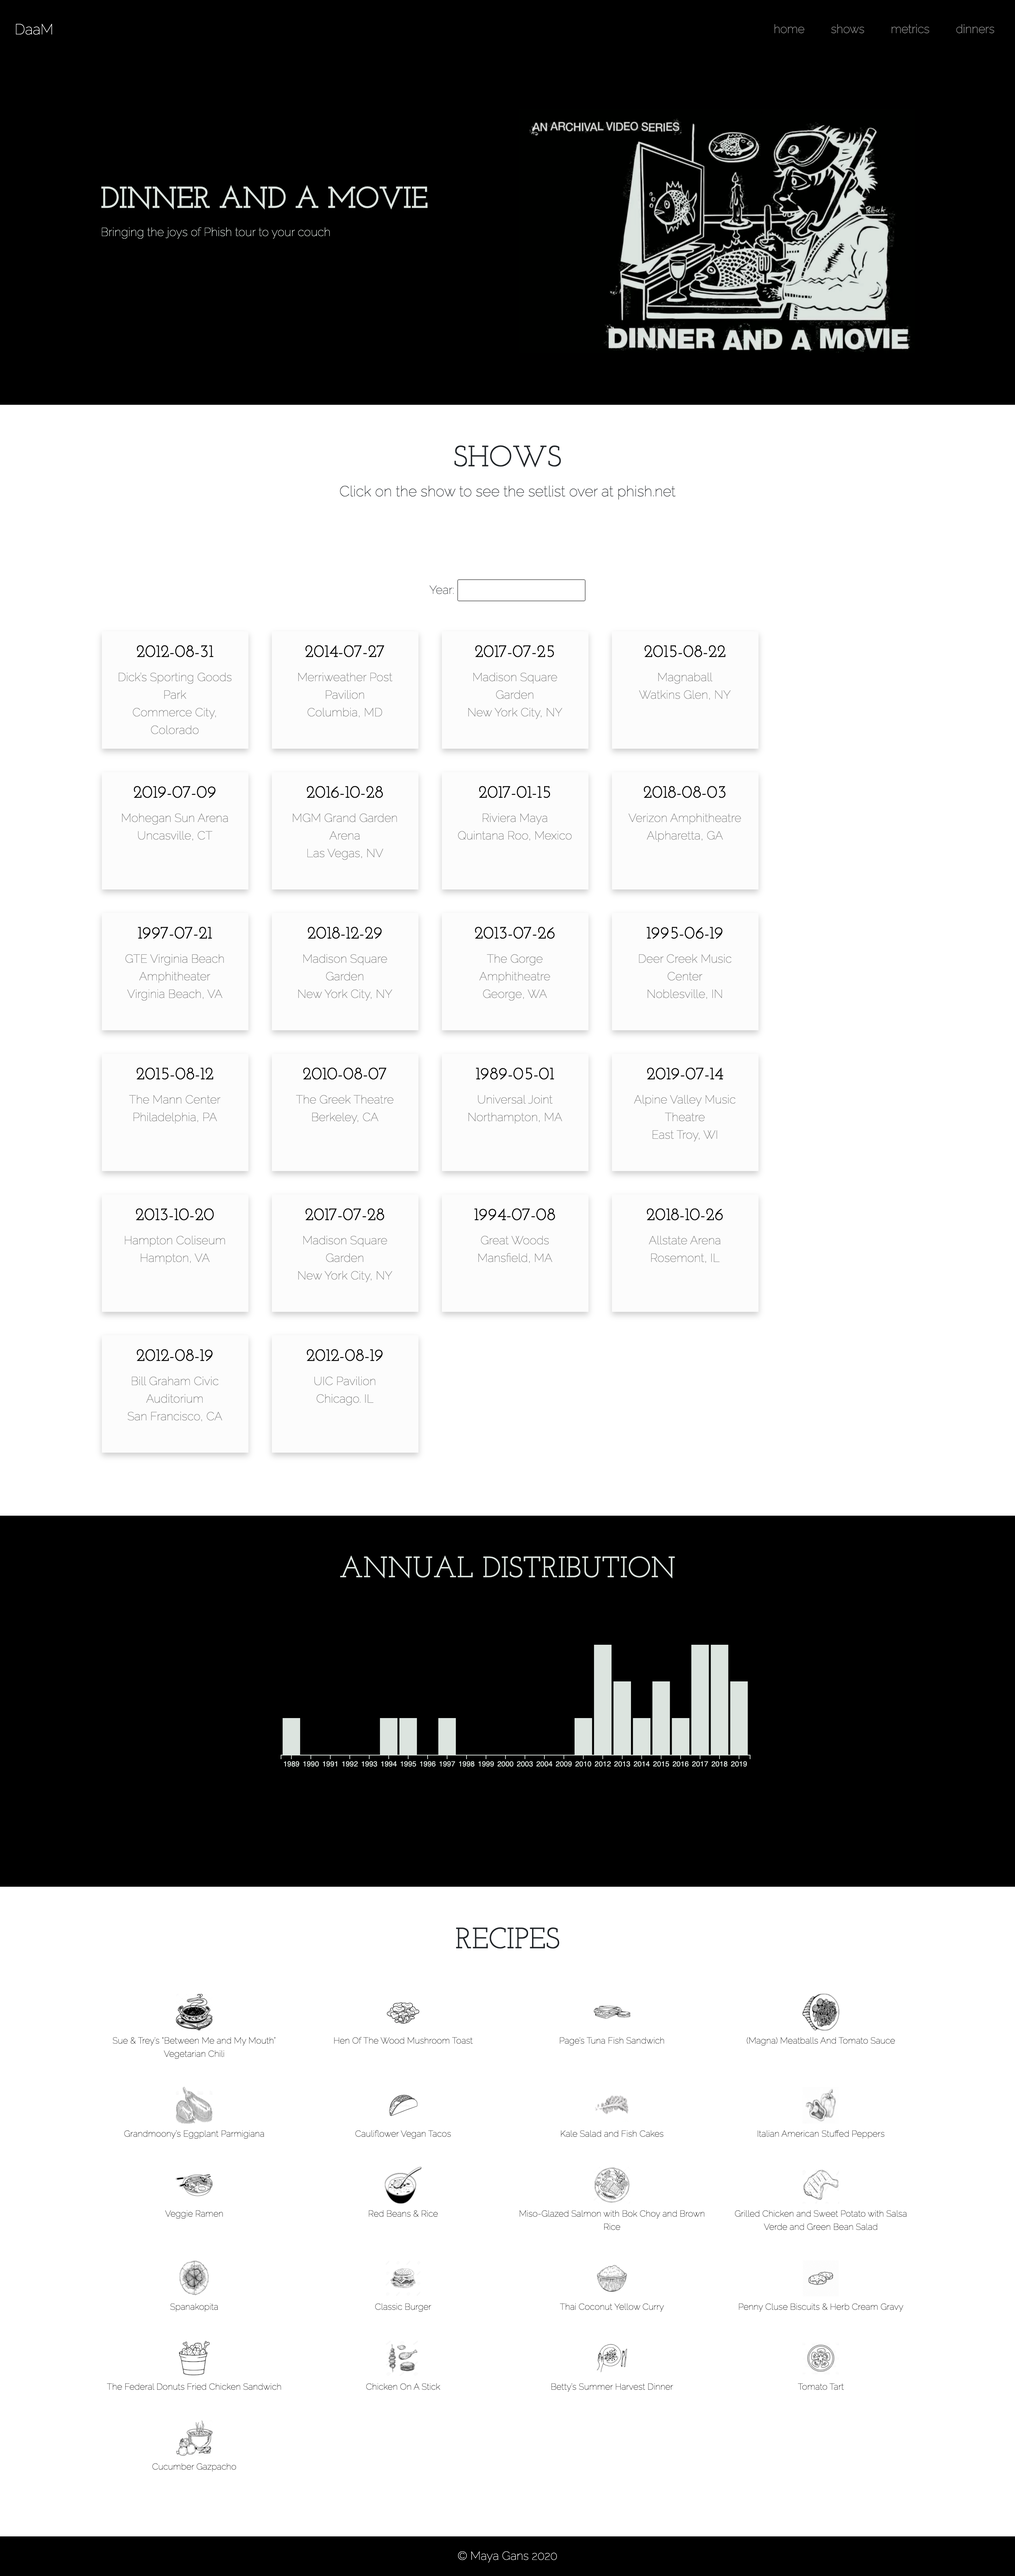
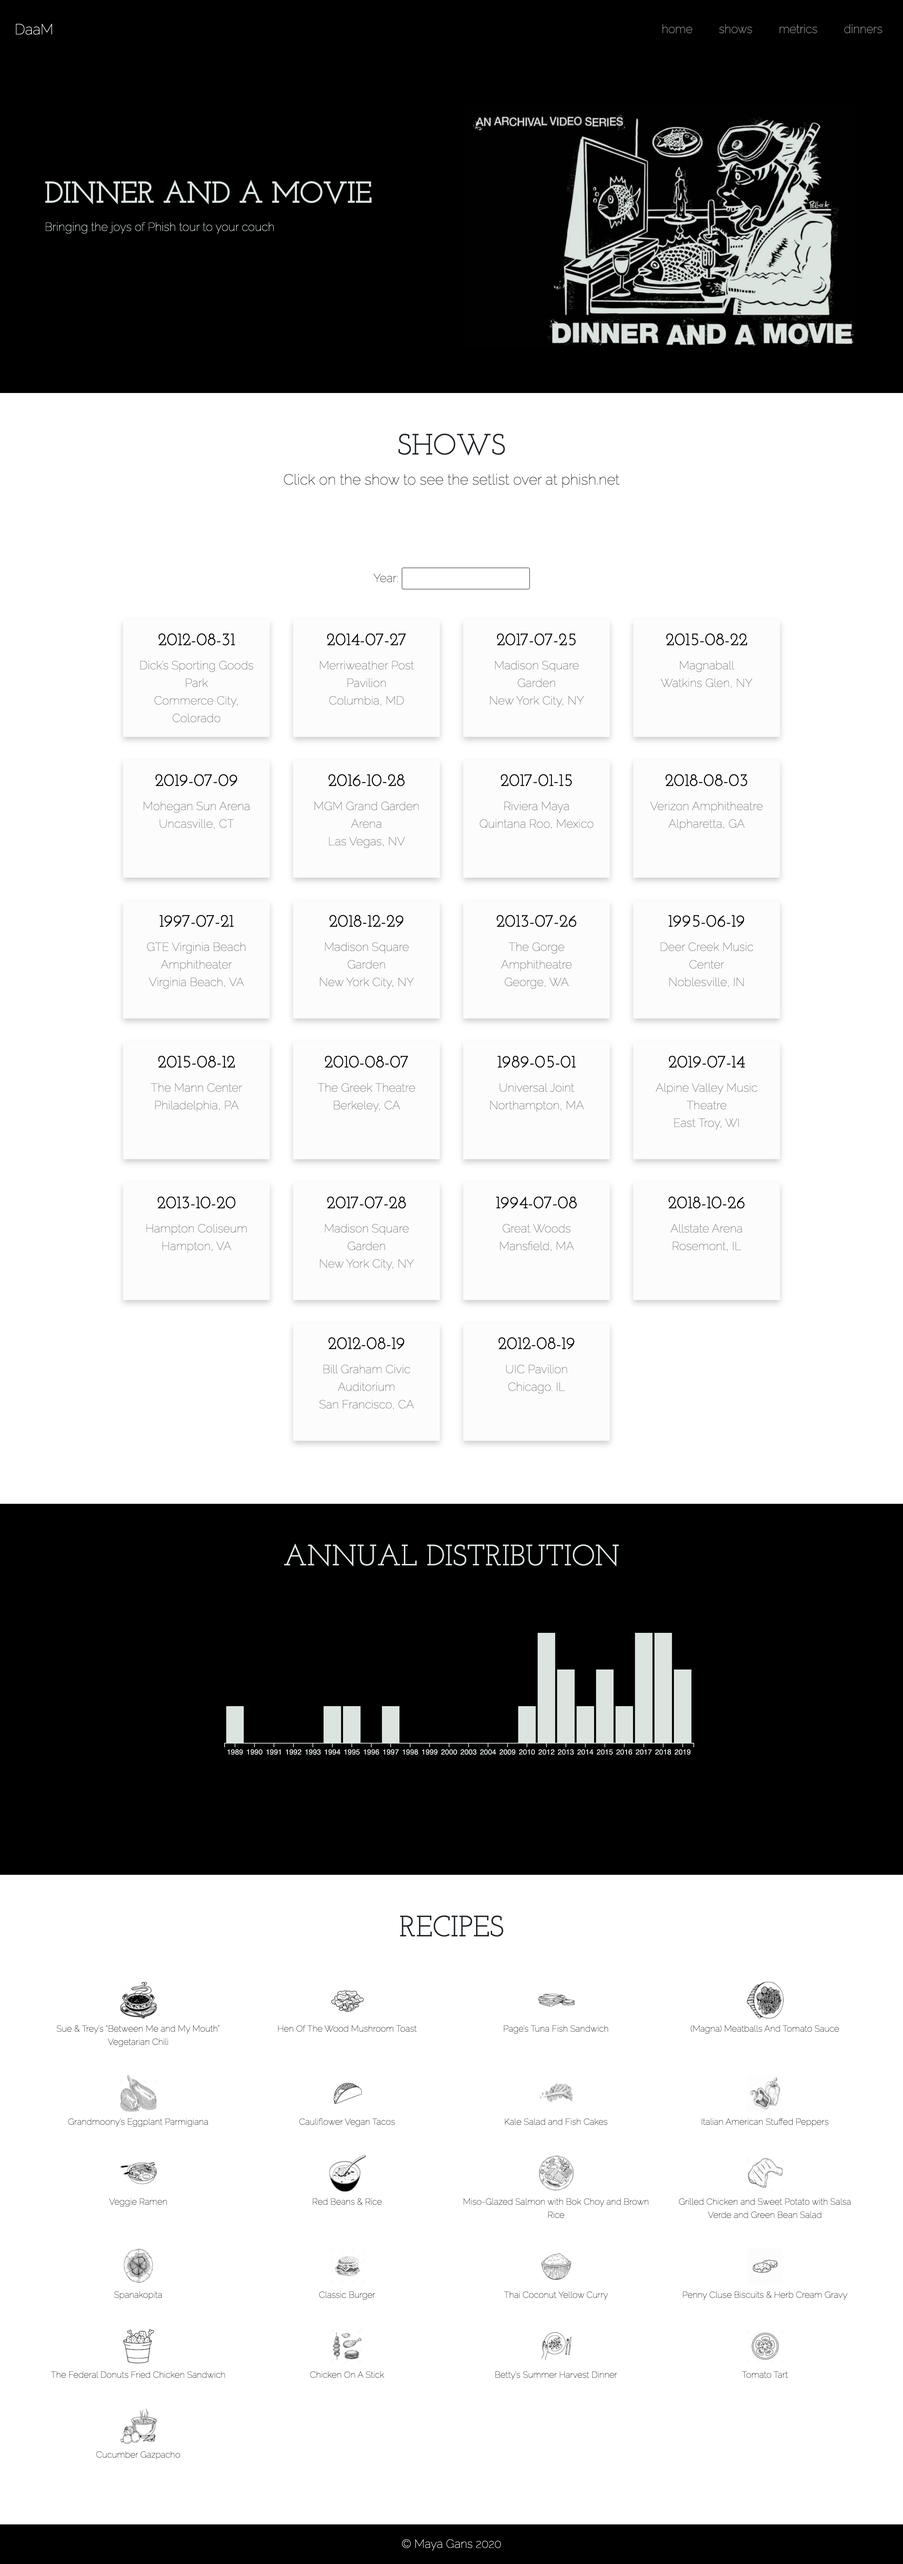
add new fullpage

diff --git a/src/Components/Shows.svelte b/src/Components/Shows.svelte
@@ -66,6 +66,11 @@ const handleInput = (e) => {
     padding-top: 50px;
   }
 
+  .row {
+    align-items: center;
+    justify-content: center;
+  }
+
   .color-card {
     box-shadow: 0 4px 8px 0 rgba(0,0,0,0.2);
     transition: 0.3s;

diff --git a/src/Components/Recipes.svelte b/src/Components/Recipes.svelte
@@ -30,6 +30,7 @@
     margin-bottom: 5px;
   }
 
+  
   a {
     text-decoration: none;
     color: black;
